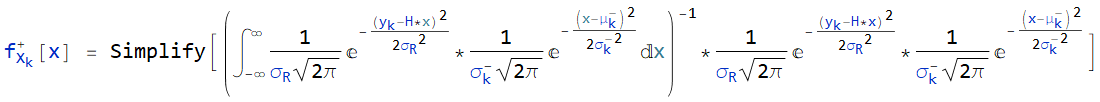
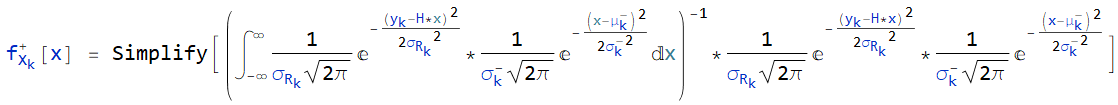
Site updated: 2020-09-19 16:58:43

diff --git a/archives/3bb74af.html b/archives/3bb74af.html
@@ -61,13 +61,15 @@
 <meta property="og:locale" content="zh_CN">
 <meta property="og:image" content="https://i.loli.net/2020/09/19/8LJRmo6YSyF2Tzk.png">
 <meta property="og:image" content="https://i.loli.net/2020/09/19/zZRVjSFxOnIbAv2.png">
+<meta property="og:image" content="https://i.loli.net/2020/09/19/VCk9zmAq5FJUXTi.png">
+<meta property="og:image" content="https://i.loli.net/2020/09/19/mxED34lZVjXP7hM.png">
 <meta property="article:published_time" content="2020-09-06T05:13:37.000Z">
-<meta property="article:modified_time" content="2020-09-19T07:29:56.578Z">
+<meta property="article:modified_time" content="2020-09-19T08:58:12.021Z">
 <meta property="article:author" content="ShiPeng">
 <meta property="article:tag" content="数学">
 <meta property="article:tag" content="滤波">
-<meta property="article:tag" content="自动驾驶">
 <meta property="article:tag" content="卡尔曼滤波">
+<meta property="article:tag" content="自动驾驶">
 <meta name="twitter:card" content="summary">
 <meta name="twitter:image" content="https://i.loli.net/2020/09/19/8LJRmo6YSyF2Tzk.png">
 
@@ -266,7 +268,7 @@
                   <i class="fa fa-calendar-check-o"></i>
                 </span>
                 <span class="post-meta-item-text">更新于</span>
-                <time title="修改时间：2020-09-19 15:29:56" itemprop="dateModified" datetime="2020-09-19T15:29:56+08:00">2020-09-19</time>
+                <time title="修改时间：2020-09-19 16:58:12" itemprop="dateModified" datetime="2020-09-19T16:58:12+08:00">2020-09-19</time>
               </span>
 
           <br>
@@ -347,7 +349,7 @@ f_{X_{k-1}}^+=\frac{1}{\sigma_{k-1}^+\sqrt{2\pi}}e^{-\frac{(x-\mu_{k-1}^+)^2}{2\
 <script type="math/tex; mode=display">
 \begin{aligned}
     f_{X_k}^-(x) & = \int_{-\infty}^{+\infty}f_{Q_k}[x-f(v)]f_{X_{k-1}}^+(v)\mathrm{d}v \\
-    & = \int_{-\infty}^{+\infty}\frac{1}{\sigma_{Q_k}\sqrt{2\pi}}e^{-\frac{(x-Fv-Bu)^2}{2\sigma_{Q_k}}}*\frac{1}{\sigma_{k-1}^+\sqrt{2\pi}}e^{-\frac{(x-\mu_{k-1}^+)^2}{2\sigma_{k-1}^+}}\mathrm{d}v
+    & = \int_{-\infty}^{+\infty}\frac{1}{\sigma_{Q_k}\sqrt{2\pi}}e^{-\frac{(x-Fv-Bu)^2}{2{\sigma_{Q_k}}^2}}*\frac{1}{\sigma_{k-1}^+\sqrt{2\pi}}e^{-\frac{(x-\mu_{k-1}^+)^2}{2{\sigma_{k-1}^+}^2}}\mathrm{d}v
 \end{aligned}</script><p>对于 $f_{X_k}^-(x)$ 的推导，有三种方法：</p>
 <ul>
 <li>Mathemmatica 软件做符号推导</li>
@@ -356,9 +358,32 @@ f_{X_{k-1}}^+=\frac{1}{\sigma_{k-1}^+\sqrt{2\pi}}e^{-\frac{(x-\mu_{k-1}^+)^2}{2\
 </ul>
 <p>这里使用 Mathemmatica 软件做符号推导，创建 WolframScript（.wls）脚本文件，创建 $f_{X_k}^-(x)$ 公式：</p>
 <p><img data-src="https://i.loli.net/2020/09/19/8LJRmo6YSyF2Tzk.png" alt="卡尔曼滤波先验概率密度函数wls脚本公式"></p>
+<p>其中，${\sigma_{Q_k}}^2$ 表示 $k$ 时刻过程噪声的方差；$\mu_{k-one}^+$ 表示 $k-1$ 时刻状态量的后验概率密度函数均值；${\sigma_{k-one}^+}^2$ 表示 $k-1$ 时刻状态量的后验概率密度函数方差。</p>
 <p>运行代码进行化简，得到如下条件表达式结果：</p>
 <p><img data-src="https://i.loli.net/2020/09/19/zZRVjSFxOnIbAv2.png" alt="卡尔曼滤波先验概率密度函数wls脚本化简结果"></p>
-<h2 id="3-2-更新步的三个公式" class="heading-control"><a href="#3-2-更新步的三个公式" class="headerlink" title="3.2 更新步的三个公式"></a>3.2 更新步的三个公式<a class="heading-anchor" href="#3-2-更新步的三个公式" aria-hidden="true"></a></h2><p>公式推导<br>    留数定理<br>    傅里叶变换+卷积<br>    Mathematica<br>    先验概率密度函数推导，从函数形式得到先验均值和方差<br>    后验概率密度函数推导，从函数形式得到后验均值、方差和卡尔曼增益<br>卡尔曼滤波的5个公式<br>    先验均值<br>    先验方差<br>    卡尔曼增益<br>    后验均值<br>    后验方差</p>
+<p>条件表达式中的条件显然成立，整理表达式形式可知先验概率密度函数 $f_{X_k}^-(x)$ 的均值和方差分别为：</p>
+<script type="math/tex; mode=display">
+\mu_k^- = F*\mu_{k-1}^++B*u \tag{1} \\
+{\sigma_k^-}^2 = F^2*{\sigma_{k-1}^+}^2+{\sigma_{Q_k}}^2 \tag{2}</script><h2 id="3-2-更新步的三个公式" class="heading-control"><a href="#3-2-更新步的三个公式" class="headerlink" title="3.2 更新步的三个公式"></a>3.2 更新步的三个公式<a class="heading-anchor" href="#3-2-更新步的三个公式" aria-hidden="true"></a></h2><p>结合假设四、假设六及上文结论，$k$ 时刻状态量 $X_k$ 的后验概率密度函数为：</p>
+<script type="math/tex; mode=display">
+\begin{aligned}
+    f_{X_k}^+(x) & = \eta_k·f_{R_k}[y_k-h(x)]·f_{X_k}^-(x) \\
+    & = \eta_k*\frac{1}{\sigma_{R_k}\sqrt{2\pi}}e^{-\frac{(y_k-H*x)^2}{2{\sigma_{R_k}}^2}}*\frac{1}{\sigma_{k}^-\sqrt{2\pi}}e^{-\frac{(x-\mu_{k}^-)^2}{2{\sigma_{k}^-}^2}}
+\end{aligned}</script><p>其中，归一化常数 $\eta_k$ 为：</p>
+<script type="math/tex; mode=display">
+\eta_k=\int_{-\infty}^{\infty}\frac{1}{\sigma_{R_k}\sqrt{2\pi}}e^{-\frac{(y_k-H*x)^2}{2{\sigma_{R_k}}^2}}*\frac{1}{\sigma_{k}^-\sqrt{2\pi}}e^{-\frac{(x-\mu_{k}^-)^2}{2{\sigma_{k}^-}^2}}\mathrm{d}x</script><p>创建 WolframScript（.wls）脚本文件，创建 $f_{X_k}^+(x)$ 公式：</p>
+<p><img data-src="https://i.loli.net/2020/09/19/VCk9zmAq5FJUXTi.png" alt="卡尔曼滤波后验概率密度函数wls脚本公式"></p>
+<p>其中，${\sigma_{R_k}}^2$ 表示 $k$ 时刻观测噪声的方差；$y_k$ 表示 $k$ 时刻观测量的取值。<code>Simplify[]</code> 函数的使用是为了简化结果。</p>
+<p>运行代码进行化简，得到如下条件表达式结果：</p>
+<p><img data-src="https://i.loli.net/2020/09/19/mxED34lZVjXP7hM.png" alt="卡尔曼滤波后验概率密度函数wls脚本化简结果"></p>
+<p>条件表达式中的条件显然成立，整理表达式形式可知后验概率密度函数 $f_{X_k}^+(x)$ 的均值和方差分别为：</p>
+<script type="math/tex; mode=display">
+\begin{aligned}
+    \mu_k^+ & = \mu_k^-+K(y_k-H*\mu_k^-) \\
+    {\sigma_k^+}^2 & = (1-K)\sigma_k^-
+\end{aligned}</script><p>其中，$K$ 被称为卡尔曼增益系数：</p>
+<script type="math/tex; mode=display">
+K=\frac{H*\sigma_k^-}{H^2\sigma_k^-+{\sigma_{R_k}}^2}</script><p>公式推导<br>    留数定理<br>    傅里叶变换+卷积<br>    Mathematica<br>    先验概率密度函数推导，从函数形式得到先验均值和方差<br>    后验概率密度函数推导，从函数形式得到后验均值、方差和卡尔曼增益<br>卡尔曼滤波的5个公式<br>    先验均值<br>    先验方差<br>    卡尔曼增益<br>    后验均值<br>    后验方差</p>
 <h1 id="4-矩阵形式的卡尔曼滤波" class="heading-control"><a href="#4-矩阵形式的卡尔曼滤波" class="headerlink" title="4 矩阵形式的卡尔曼滤波"></a>4 矩阵形式的卡尔曼滤波<a class="heading-anchor" href="#4-矩阵形式的卡尔曼滤波" aria-hidden="true"></a></h1><p>状态量随机向量 $X$ $n_X \times 1$<br>状态转移矩阵 $F$ $n_X \times n_X$<br>控制矩阵 $B$ $n_X \times n_u$<br>控制向量 $\overrightarrow{u}$ $n_u \times 1$<br>状态协方差矩阵 $P$ $n_X \times n_X$<br>过程噪声协方差 $Q$ $n_X \times n_X$<br>观测量随机向量 $Y$ $n_Y \times 1$<br>观测矩阵 $H$ $n_Y \times n_X$<br>观测噪声协方差矩阵 $R$ $n_Y \times n_Y$<br>卡尔曼增益矩阵 $K$ $n_X \times n_Y$</p>
 <p>卡尔曼滤波与多传感器融合</p>
 <h1 id="5-参考" class="heading-control"><a href="#5-参考" class="headerlink" title="5 参考"></a>5 参考<a class="heading-anchor" href="#5-参考" aria-hidden="true"></a></h1><ol>
@@ -388,10 +413,10 @@ f_{X_{k-1}}^+=\frac{1}{\sigma_{k-1}^+\sqrt{2\pi}}e^{-\frac{(x-\mu_{k-1}^+)^2}{2\
       <div class="popular-posts-title"><a href="\archives\8ddff8f2.html" rel="bookmark">导航定位领域里的一些基本概念</a></div>
     </li>
     <li class="popular-posts-item">
-      <div class="popular-posts-title"><a href="\archives\24a03bff.html" rel="bookmark">（七）量产必备的毫米波雷达</a></div>
+      <div class="popular-posts-title"><a href="\archives\fde458ab.html" rel="bookmark">（九）与生俱来的VCU信号</a></div>
     </li>
     <li class="popular-posts-item">
-      <div class="popular-posts-title"><a href="\archives\c870f676.html" rel="bookmark">（三）百度无人车传感器GPS深入剖析</a></div>
+      <div class="popular-posts-title"><a href="\archives\24a03bff.html" rel="bookmark">（七）量产必备的毫米波雷达</a></div>
     </li>
   </ul>
 
@@ -438,8 +463,8 @@ f_{X_{k-1}}^+=\frac{1}{\sigma_{k-1}^+\sqrt{2\pi}}e^{-\frac{(x-\mu_{k-1}^+)^2}{2\
           <div class="post-tags">
               <a href="/tags/%E6%95%B0%E5%AD%A6/" rel="tag"><i class="fa fa-tag"></i> 数学</a>
               <a href="/tags/%E6%BB%A4%E6%B3%A2/" rel="tag"><i class="fa fa-tag"></i> 滤波</a>
-              <a href="/tags/%E8%87%AA%E5%8A%A8%E9%A9%BE%E9%A9%B6/" rel="tag"><i class="fa fa-tag"></i> 自动驾驶</a>
               <a href="/tags/%E5%8D%A1%E5%B0%94%E6%9B%BC%E6%BB%A4%E6%B3%A2/" rel="tag"><i class="fa fa-tag"></i> 卡尔曼滤波</a>
+              <a href="/tags/%E8%87%AA%E5%8A%A8%E9%A9%BE%E9%A9%B6/" rel="tag"><i class="fa fa-tag"></i> 自动驾驶</a>
           </div>
 
         

diff --git a/archives/9fb25cec.html b/archives/9fb25cec.html
@@ -67,8 +67,8 @@
 <meta property="article:author" content="ShiPeng">
 <meta property="article:tag" content="数学">
 <meta property="article:tag" content="滤波">
-<meta property="article:tag" content="贝叶斯滤波">
 <meta property="article:tag" content="自动驾驶">
+<meta property="article:tag" content="贝叶斯滤波">
 <meta name="twitter:card" content="summary">
 <meta name="twitter:image" content="https://i.loli.net/2020/08/20/14woEzlgNBSYasG.png">
 
@@ -711,10 +711,10 @@ f_{X_k}^+(x)=\eta_k·f_{R_k}[y_k-h(x)]·f_{X_k}^-(x)</script><p>归一化常数 
       <div class="popular-posts-title"><a href="\archives\8ddff8f2.html" rel="bookmark">导航定位领域里的一些基本概念</a></div>
     </li>
     <li class="popular-posts-item">
-      <div class="popular-posts-title"><a href="\archives\24a03bff.html" rel="bookmark">（七）量产必备的毫米波雷达</a></div>
+      <div class="popular-posts-title"><a href="\archives\fde458ab.html" rel="bookmark">（九）与生俱来的VCU信号</a></div>
     </li>
     <li class="popular-posts-item">
-      <div class="popular-posts-title"><a href="\archives\c870f676.html" rel="bookmark">（三）百度无人车传感器GPS深入剖析</a></div>
+      <div class="popular-posts-title"><a href="\archives\24a03bff.html" rel="bookmark">（七）量产必备的毫米波雷达</a></div>
     </li>
   </ul>
 
@@ -761,8 +761,8 @@ f_{X_k}^+(x)=\eta_k·f_{R_k}[y_k-h(x)]·f_{X_k}^-(x)</script><p>归一化常数 
           <div class="post-tags">
               <a href="/tags/%E6%95%B0%E5%AD%A6/" rel="tag"><i class="fa fa-tag"></i> 数学</a>
               <a href="/tags/%E6%BB%A4%E6%B3%A2/" rel="tag"><i class="fa fa-tag"></i> 滤波</a>
-              <a href="/tags/%E8%B4%9D%E5%8F%B6%E6%96%AF%E6%BB%A4%E6%B3%A2/" rel="tag"><i class="fa fa-tag"></i> 贝叶斯滤波</a>
               <a href="/tags/%E8%87%AA%E5%8A%A8%E9%A9%BE%E9%A9%B6/" rel="tag"><i class="fa fa-tag"></i> 自动驾驶</a>
+              <a href="/tags/%E8%B4%9D%E5%8F%B6%E6%96%AF%E6%BB%A4%E6%B3%A2/" rel="tag"><i class="fa fa-tag"></i> 贝叶斯滤波</a>
           </div>
 
         

diff --git a/archives/e0ebe48c.html b/archives/e0ebe48c.html
@@ -435,19 +435,19 @@ S=(X_vθ-Y_r)^T(X_vθ-Y_r)</script><p>$X_v$ 是一个<strong>范德蒙矩阵</st
   <div class="popular-posts-header">猜你喜欢</div>
   <ul class="popular-posts">
     <li class="popular-posts-item">
-      <div class="popular-posts-title"><a href="\archives\9fb25cec.html" rel="bookmark">从概率到贝叶斯滤波</a></div>
+      <div class="popular-posts-title"><a href="\archives\3bb74af.html" rel="bookmark">从贝叶斯滤波到卡尔曼滤波</a></div>
     </li>
     <li class="popular-posts-item">
-      <div class="popular-posts-title"><a href="\archives\3bb74af.html" rel="bookmark">从贝叶斯滤波到卡尔曼滤波</a></div>
+      <div class="popular-posts-title"><a href="\archives\9fb25cec.html" rel="bookmark">从概率到贝叶斯滤波</a></div>
     </li>
     <li class="popular-posts-item">
       <div class="popular-posts-title"><a href="\archives\8ddff8f2.html" rel="bookmark">导航定位领域里的一些基本概念</a></div>
     </li>
     <li class="popular-posts-item">
-      <div class="popular-posts-title"><a href="\archives\24a03bff.html" rel="bookmark">（七）量产必备的毫米波雷达</a></div>
+      <div class="popular-posts-title"><a href="\archives\fde458ab.html" rel="bookmark">（九）与生俱来的VCU信号</a></div>
     </li>
     <li class="popular-posts-item">
-      <div class="popular-posts-title"><a href="\archives\c870f676.html" rel="bookmark">（三）百度无人车传感器GPS深入剖析</a></div>
+      <div class="popular-posts-title"><a href="\archives\24a03bff.html" rel="bookmark">（七）量产必备的毫米波雷达</a></div>
     </li>
   </ul>
 

diff --git a/archives/b10733db.html b/archives/b10733db.html
@@ -403,19 +403,19 @@ z_1
   <div class="popular-posts-header">猜你喜欢</div>
   <ul class="popular-posts">
     <li class="popular-posts-item">
-      <div class="popular-posts-title"><a href="\archives\9fb25cec.html" rel="bookmark">从概率到贝叶斯滤波</a></div>
+      <div class="popular-posts-title"><a href="\archives\3bb74af.html" rel="bookmark">从贝叶斯滤波到卡尔曼滤波</a></div>
     </li>
     <li class="popular-posts-item">
-      <div class="popular-posts-title"><a href="\archives\3bb74af.html" rel="bookmark">从贝叶斯滤波到卡尔曼滤波</a></div>
+      <div class="popular-posts-title"><a href="\archives\9fb25cec.html" rel="bookmark">从概率到贝叶斯滤波</a></div>
     </li>
     <li class="popular-posts-item">
       <div class="popular-posts-title"><a href="\archives\8ddff8f2.html" rel="bookmark">导航定位领域里的一些基本概念</a></div>
     </li>
     <li class="popular-posts-item">
-      <div class="popular-posts-title"><a href="\archives\24a03bff.html" rel="bookmark">（七）量产必备的毫米波雷达</a></div>
+      <div class="popular-posts-title"><a href="\archives\e0ebe48c.html" rel="bookmark">最小二乘法多项式曲线拟合数学原理及其C++实现</a></div>
     </li>
     <li class="popular-posts-item">
-      <div class="popular-posts-title"><a href="\archives\e0ebe48c.html" rel="bookmark">最小二乘法多项式曲线拟合数学原理及其C++实现</a></div>
+      <div class="popular-posts-title"><a href="\archives\fde458ab.html" rel="bookmark">（九）与生俱来的VCU信号</a></div>
     </li>
   </ul>
 

diff --git a/archives/d3b96bd5.html b/archives/d3b96bd5.html
@@ -509,19 +509,19 @@ H=
   <div class="popular-posts-header">猜你喜欢</div>
   <ul class="popular-posts">
     <li class="popular-posts-item">
-      <div class="popular-posts-title"><a href="\archives\9fb25cec.html" rel="bookmark">从概率到贝叶斯滤波</a></div>
+      <div class="popular-posts-title"><a href="\archives\3bb74af.html" rel="bookmark">从贝叶斯滤波到卡尔曼滤波</a></div>
     </li>
     <li class="popular-posts-item">
-      <div class="popular-posts-title"><a href="\archives\3bb74af.html" rel="bookmark">从贝叶斯滤波到卡尔曼滤波</a></div>
+      <div class="popular-posts-title"><a href="\archives\9fb25cec.html" rel="bookmark">从概率到贝叶斯滤波</a></div>
     </li>
     <li class="popular-posts-item">
       <div class="popular-posts-title"><a href="\archives\8ddff8f2.html" rel="bookmark">导航定位领域里的一些基本概念</a></div>
     </li>
     <li class="popular-posts-item">
-      <div class="popular-posts-title"><a href="\archives\24a03bff.html" rel="bookmark">（七）量产必备的毫米波雷达</a></div>
+      <div class="popular-posts-title"><a href="\archives\e0ebe48c.html" rel="bookmark">最小二乘法多项式曲线拟合数学原理及其C++实现</a></div>
     </li>
     <li class="popular-posts-item">
-      <div class="popular-posts-title"><a href="\archives\e0ebe48c.html" rel="bookmark">最小二乘法多项式曲线拟合数学原理及其C++实现</a></div>
+      <div class="popular-posts-title"><a href="\archives\fde458ab.html" rel="bookmark">（九）与生俱来的VCU信号</a></div>
     </li>
   </ul>
 

diff --git a/archives/1e9849c6.html b/archives/1e9849c6.html
@@ -346,19 +346,19 @@
   <div class="popular-posts-header">猜你喜欢</div>
   <ul class="popular-posts">
     <li class="popular-posts-item">
-      <div class="popular-posts-title"><a href="\archives\9fb25cec.html" rel="bookmark">从概率到贝叶斯滤波</a></div>
+      <div class="popular-posts-title"><a href="\archives\3bb74af.html" rel="bookmark">从贝叶斯滤波到卡尔曼滤波</a></div>
     </li>
     <li class="popular-posts-item">
-      <div class="popular-posts-title"><a href="\archives\3bb74af.html" rel="bookmark">从贝叶斯滤波到卡尔曼滤波</a></div>
+      <div class="popular-posts-title"><a href="\archives\9fb25cec.html" rel="bookmark">从概率到贝叶斯滤波</a></div>
     </li>
     <li class="popular-posts-item">
       <div class="popular-posts-title"><a href="\archives\8ddff8f2.html" rel="bookmark">导航定位领域里的一些基本概念</a></div>
     </li>
     <li class="popular-posts-item">
-      <div class="popular-posts-title"><a href="\archives\24a03bff.html" rel="bookmark">（七）量产必备的毫米波雷达</a></div>
+      <div class="popular-posts-title"><a href="\archives\e0ebe48c.html" rel="bookmark">最小二乘法多项式曲线拟合数学原理及其C++实现</a></div>
     </li>
     <li class="popular-posts-item">
-      <div class="popular-posts-title"><a href="\archives\e0ebe48c.html" rel="bookmark">最小二乘法多项式曲线拟合数学原理及其C++实现</a></div>
+      <div class="popular-posts-title"><a href="\archives\fde458ab.html" rel="bookmark">（九）与生俱来的VCU信号</a></div>
     </li>
   </ul>
 

diff --git a/archives/418d7d6f.html b/archives/418d7d6f.html
@@ -316,19 +316,19 @@
   <div class="popular-posts-header">猜你喜欢</div>
   <ul class="popular-posts">
     <li class="popular-posts-item">
-      <div class="popular-posts-title"><a href="\archives\9fb25cec.html" rel="bookmark">从概率到贝叶斯滤波</a></div>
+      <div class="popular-posts-title"><a href="\archives\3bb74af.html" rel="bookmark">从贝叶斯滤波到卡尔曼滤波</a></div>
     </li>
     <li class="popular-posts-item">
-      <div class="popular-posts-title"><a href="\archives\3bb74af.html" rel="bookmark">从贝叶斯滤波到卡尔曼滤波</a></div>
+      <div class="popular-posts-title"><a href="\archives\9fb25cec.html" rel="bookmark">从概率到贝叶斯滤波</a></div>
     </li>
     <li class="popular-posts-item">
       <div class="popular-posts-title"><a href="\archives\8ddff8f2.html" rel="bookmark">导航定位领域里的一些基本概念</a></div>
     </li>
     <li class="popular-posts-item">
-      <div class="popular-posts-title"><a href="\archives\24a03bff.html" rel="bookmark">（七）量产必备的毫米波雷达</a></div>
+      <div class="popular-posts-title"><a href="\archives\e0ebe48c.html" rel="bookmark">最小二乘法多项式曲线拟合数学原理及其C++实现</a></div>
     </li>
     <li class="popular-posts-item">
-      <div class="popular-posts-title"><a href="\archives\e0ebe48c.html" rel="bookmark">最小二乘法多项式曲线拟合数学原理及其C++实现</a></div>
+      <div class="popular-posts-title"><a href="\archives\fde458ab.html" rel="bookmark">（九）与生俱来的VCU信号</a></div>
     </li>
   </ul>
 

diff --git a/archives/4da6b2e.html b/archives/4da6b2e.html
@@ -347,19 +347,19 @@
   <div class="popular-posts-header">猜你喜欢</div>
   <ul class="popular-posts">
     <li class="popular-posts-item">
-      <div class="popular-posts-title"><a href="\archives\9fb25cec.html" rel="bookmark">从概率到贝叶斯滤波</a></div>
+      <div class="popular-posts-title"><a href="\archives\3bb74af.html" rel="bookmark">从贝叶斯滤波到卡尔曼滤波</a></div>
     </li>
     <li class="popular-posts-item">
-      <div class="popular-posts-title"><a href="\archives\3bb74af.html" rel="bookmark">从贝叶斯滤波到卡尔曼滤波</a></div>
+      <div class="popular-posts-title"><a href="\archives\9fb25cec.html" rel="bookmark">从概率到贝叶斯滤波</a></div>
     </li>
     <li class="popular-posts-item">
       <div class="popular-posts-title"><a href="\archives\8ddff8f2.html" rel="bookmark">导航定位领域里的一些基本概念</a></div>
     </li>
     <li class="popular-posts-item">
-      <div class="popular-posts-title"><a href="\archives\24a03bff.html" rel="bookmark">（七）量产必备的毫米波雷达</a></div>
+      <div class="popular-posts-title"><a href="\archives\e0ebe48c.html" rel="bookmark">最小二乘法多项式曲线拟合数学原理及其C++实现</a></div>
     </li>
     <li class="popular-posts-item">
-      <div class="popular-posts-title"><a href="\archives\e0ebe48c.html" rel="bookmark">最小二乘法多项式曲线拟合数学原理及其C++实现</a></div>
+      <div class="popular-posts-title"><a href="\archives\fde458ab.html" rel="bookmark">（九）与生俱来的VCU信号</a></div>
     </li>
   </ul>
 

diff --git a/archives/78513fbc.html b/archives/78513fbc.html
@@ -360,19 +360,19 @@
   <div class="popular-posts-header">猜你喜欢</div>
   <ul class="popular-posts">
     <li class="popular-posts-item">
-      <div class="popular-posts-title"><a href="\archives\9fb25cec.html" rel="bookmark">从概率到贝叶斯滤波</a></div>
+      <div class="popular-posts-title"><a href="\archives\3bb74af.html" rel="bookmark">从贝叶斯滤波到卡尔曼滤波</a></div>
     </li>
     <li class="popular-posts-item">
-      <div class="popular-posts-title"><a href="\archives\3bb74af.html" rel="bookmark">从贝叶斯滤波到卡尔曼滤波</a></div>
+      <div class="popular-posts-title"><a href="\archives\9fb25cec.html" rel="bookmark">从概率到贝叶斯滤波</a></div>
     </li>
     <li class="popular-posts-item">
       <div class="popular-posts-title"><a href="\archives\8ddff8f2.html" rel="bookmark">导航定位领域里的一些基本概念</a></div>
     </li>
     <li class="popular-posts-item">
-      <div class="popular-posts-title"><a href="\archives\24a03bff.html" rel="bookmark">（七）量产必备的毫米波雷达</a></div>
+      <div class="popular-posts-title"><a href="\archives\e0ebe48c.html" rel="bookmark">最小二乘法多项式曲线拟合数学原理及其C++实现</a></div>
     </li>
     <li class="popular-posts-item">
-      <div class="popular-posts-title"><a href="\archives\e0ebe48c.html" rel="bookmark">最小二乘法多项式曲线拟合数学原理及其C++实现</a></div>
+      <div class="popular-posts-title"><a href="\archives\fde458ab.html" rel="bookmark">（九）与生俱来的VCU信号</a></div>
     </li>
   </ul>
 

diff --git a/archives/a2ff34db.html b/archives/a2ff34db.html
@@ -316,19 +316,19 @@
   <div class="popular-posts-header">猜你喜欢</div>
   <ul class="popular-posts">
     <li class="popular-posts-item">
-      <div class="popular-posts-title"><a href="\archives\9fb25cec.html" rel="bookmark">从概率到贝叶斯滤波</a></div>
+      <div class="popular-posts-title"><a href="\archives\3bb74af.html" rel="bookmark">从贝叶斯滤波到卡尔曼滤波</a></div>
     </li>
     <li class="popular-posts-item">
-      <div class="popular-posts-title"><a href="\archives\3bb74af.html" rel="bookmark">从贝叶斯滤波到卡尔曼滤波</a></div>
+      <div class="popular-posts-title"><a href="\archives\9fb25cec.html" rel="bookmark">从概率到贝叶斯滤波</a></div>
     </li>
     <li class="popular-posts-item">
       <div class="popular-posts-title"><a href="\archives\8ddff8f2.html" rel="bookmark">导航定位领域里的一些基本概念</a></div>
     </li>
     <li class="popular-posts-item">
-      <div class="popular-posts-title"><a href="\archives\24a03bff.html" rel="bookmark">（七）量产必备的毫米波雷达</a></div>
+      <div class="popular-posts-title"><a href="\archives\e0ebe48c.html" rel="bookmark">最小二乘法多项式曲线拟合数学原理及其C++实现</a></div>
     </li>
     <li class="popular-posts-item">
-      <div class="popular-posts-title"><a href="\archives\e0ebe48c.html" rel="bookmark">最小二乘法多项式曲线拟合数学原理及其C++实现</a></div>
+      <div class="popular-posts-title"><a href="\archives\fde458ab.html" rel="bookmark">（九）与生俱来的VCU信号</a></div>
     </li>
   </ul>
 

diff --git a/archives/be221b74.html b/archives/be221b74.html
@@ -360,19 +360,19 @@
   <div class="popular-posts-header">猜你喜欢</div>
   <ul class="popular-posts">
     <li class="popular-posts-item">
-      <div class="popular-posts-title"><a href="\archives\9fb25cec.html" rel="bookmark">从概率到贝叶斯滤波</a></div>
+      <div class="popular-posts-title"><a href="\archives\3bb74af.html" rel="bookmark">从贝叶斯滤波到卡尔曼滤波</a></div>
     </li>
     <li class="popular-posts-item">
-      <div class="popular-posts-title"><a href="\archives\3bb74af.html" rel="bookmark">从贝叶斯滤波到卡尔曼滤波</a></div>
+      <div class="popular-posts-title"><a href="\archives\9fb25cec.html" rel="bookmark">从概率到贝叶斯滤波</a></div>
     </li>
     <li class="popular-posts-item">
       <div class="popular-posts-title"><a href="\archives\8ddff8f2.html" rel="bookmark">导航定位领域里的一些基本概念</a></div>
     </li>
     <li class="popular-posts-item">
-      <div class="popular-posts-title"><a href="\archives\24a03bff.html" rel="bookmark">（七）量产必备的毫米波雷达</a></div>
+      <div class="popular-posts-title"><a href="\archives\e0ebe48c.html" rel="bookmark">最小二乘法多项式曲线拟合数学原理及其C++实现</a></div>
     </li>
     <li class="popular-posts-item">
-      <div class="popular-posts-title"><a href="\archives\e0ebe48c.html" rel="bookmark">最小二乘法多项式曲线拟合数学原理及其C++实现</a></div>
+      <div class="popular-posts-title"><a href="\archives\fde458ab.html" rel="bookmark">（九）与生俱来的VCU信号</a></div>
     </li>
   </ul>
 
